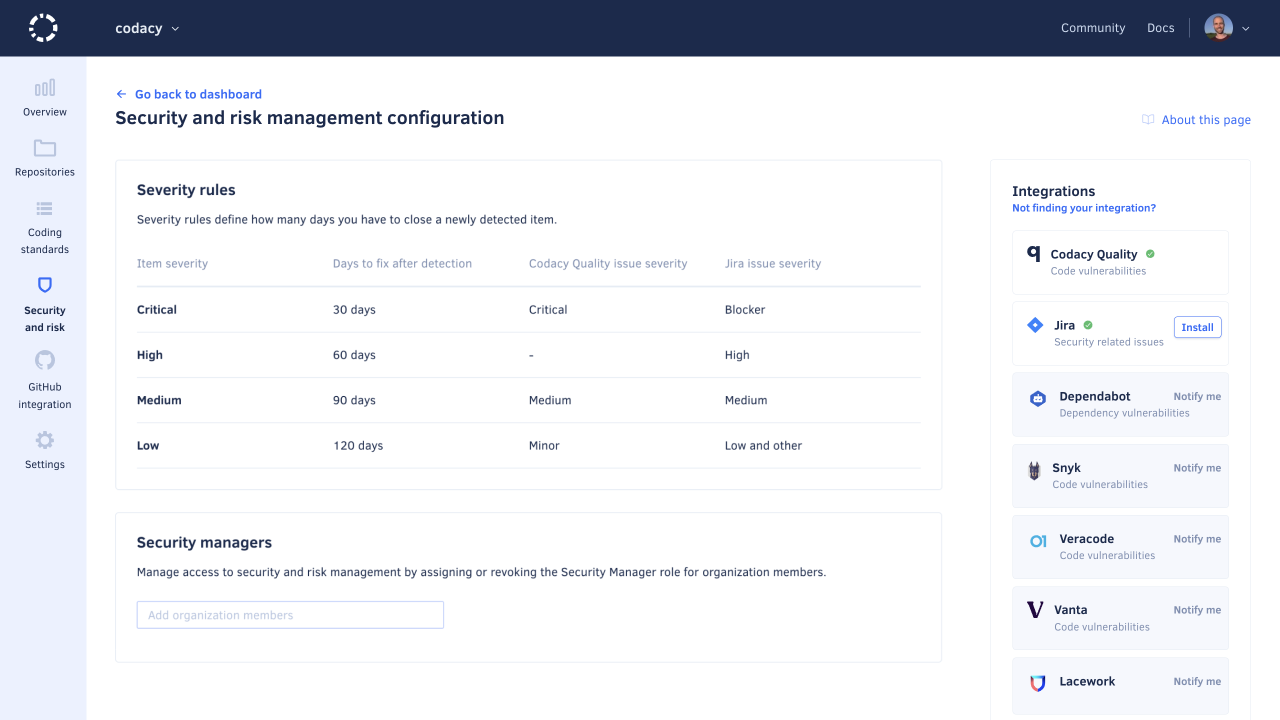
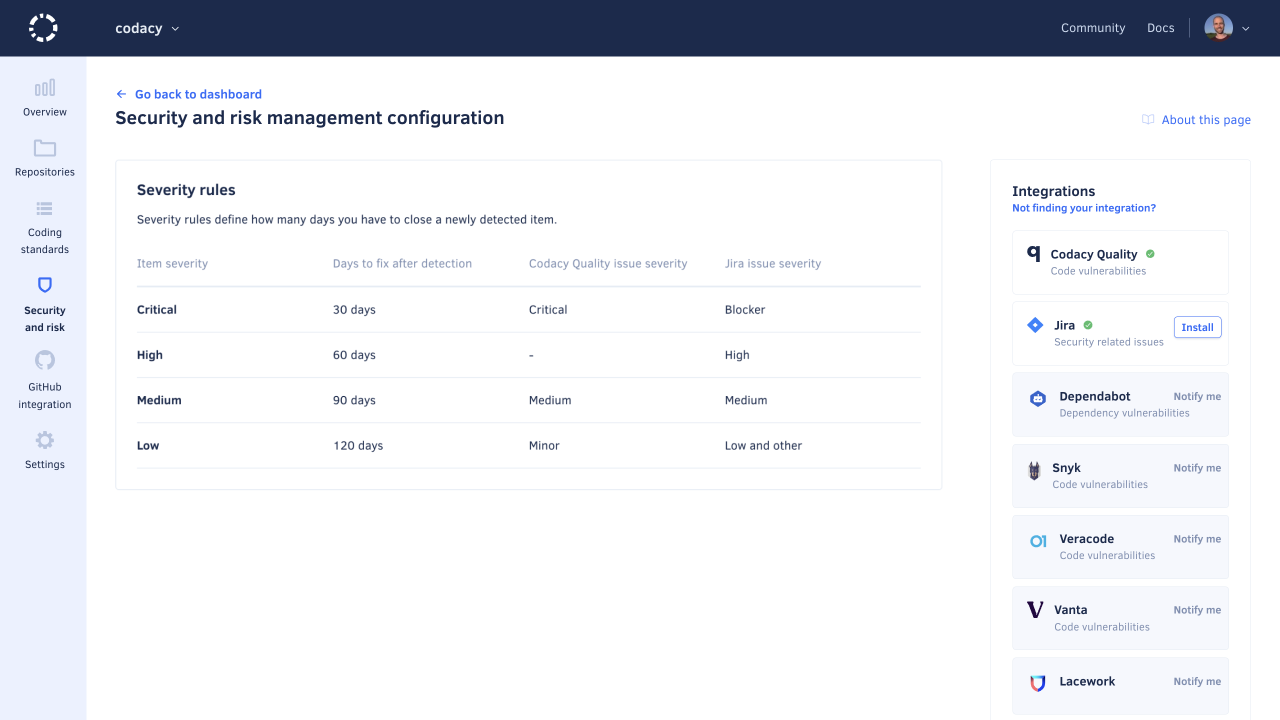
feat: Hide documentation about the Security Manager role

Changed region(s): [[0.25, 0.7944, 0.625, 0.825], [0.125, 0.7944, 0.2188, 0.8861], [0.0938, 0.7333, 0.2188, 0.7639]]

diff --git a/docs/organizations/managing-security-and-risk.md b/docs/organizations/managing-security-and-risk.md
@@ -44,7 +44,7 @@ When viewing the item list:
 
 ## Configuration page
 
-The **Security and risk management configuration** page lets you [manage integrations](#managing-integrations) to fetch security vulnerability information from third-party platforms, as well as [assign or revoke the Security Manager role](#managing-access-to-security-and-risk-management) for organization members.
+The **Security and risk management configuration** page lets you [manage integrations](#managing-integrations) to fetch security vulnerability information from third-party platforms<!--, as well as [assign or revoke the Security Manager role](#managing-access-to-security-and-risk-management) for organization members-->.
 
 To access the configuration page, access the [dashboard](#dashboard) or the [item list](#item-list) and click the **Configure** button in the top right-hand corner of the page.
 
@@ -180,6 +180,9 @@ The following table defines item severities and days to fix the associated secur
 | Medium            | 90               | Medium                               | Medium                             |
 | Low               | 120              | Minor                                | Low and other                      |
 
+<!--
+TODO Publish this section once deployed. See 
+
 ## Managing access to security and risk management
 
 To better track and address security issues, organization admins can extend access to security and risk management by assigning the Security Manager role to organization members.
@@ -213,6 +216,7 @@ To revoke the Security Manager role:
 1.  In the **Permissions** area, scroll the list to find the relevant user.
 
 1.  Click the **Revoke role icon** to the right of the user's name and confirm.
+-->
 
 <!--
 TODO Update this section once the behavior is consistent. See https://codacy.slack.com/archives/C050XTVETSQ/p1687167901474059

diff --git a/docs/organizations/roles-and-permissions-for-organizations.md b/docs/organizations/roles-and-permissions-for-organizations.md
@@ -106,8 +106,8 @@ The table below maps the GitHub Cloud and GitHub Enterprise roles to the corresp
     </tr>
     <tr>
       <td>
-        Access security and risk management,<br/>
-        assign and revoke <a href="/organizations/managing-security-and-risk/#managing-access-to-security-and-risk-management">Security Manager role</a>
+        Access security and risk management<!--,<br/>
+        assign and revoke <a href="/organizations/managing-security-and-risk/#managing-access-to-security-and-risk-management">Security Manager role</a>-->
       </td>
       <td>No</td>
       <td colspan="2">No</td>
@@ -222,8 +222,8 @@ The table below maps the GitLab Cloud and GitLab Enterprise roles to the corresp
     </tr>
     <tr>
       <td>
-        Access security and risk management,<br/>
-        assign and revoke <a href="/organizations/managing-security-and-risk/#managing-access-to-security-and-risk-management">Security Manager role</a>
+        Access security and risk management<!--,<br/>
+        assign and revoke <a href="/organizations/managing-security-and-risk/#managing-access-to-security-and-risk-management">Security Manager role</a>-->
       </td>
       <td>No</td>
       <td colspan="2">No</td>
@@ -306,8 +306,8 @@ The table below maps the Bitbucket Cloud and Bitbucket Server roles to the corre
     </tr>
     <tr>
       <td>
-        Access security and risk management,<br/>
-        assign and revoke <a href="/organizations/managing-security-and-risk/#managing-access-to-security-and-risk-management">Security Manager role</a>
+        Access security and risk management<!--,<br/>
+        assign and revoke <a href="/organizations/managing-security-and-risk/#managing-access-to-security-and-risk-management">Security Manager role</a>-->
       </td>
       <td colspan="2">No</td>
       <td class="yes">Yes</td>
